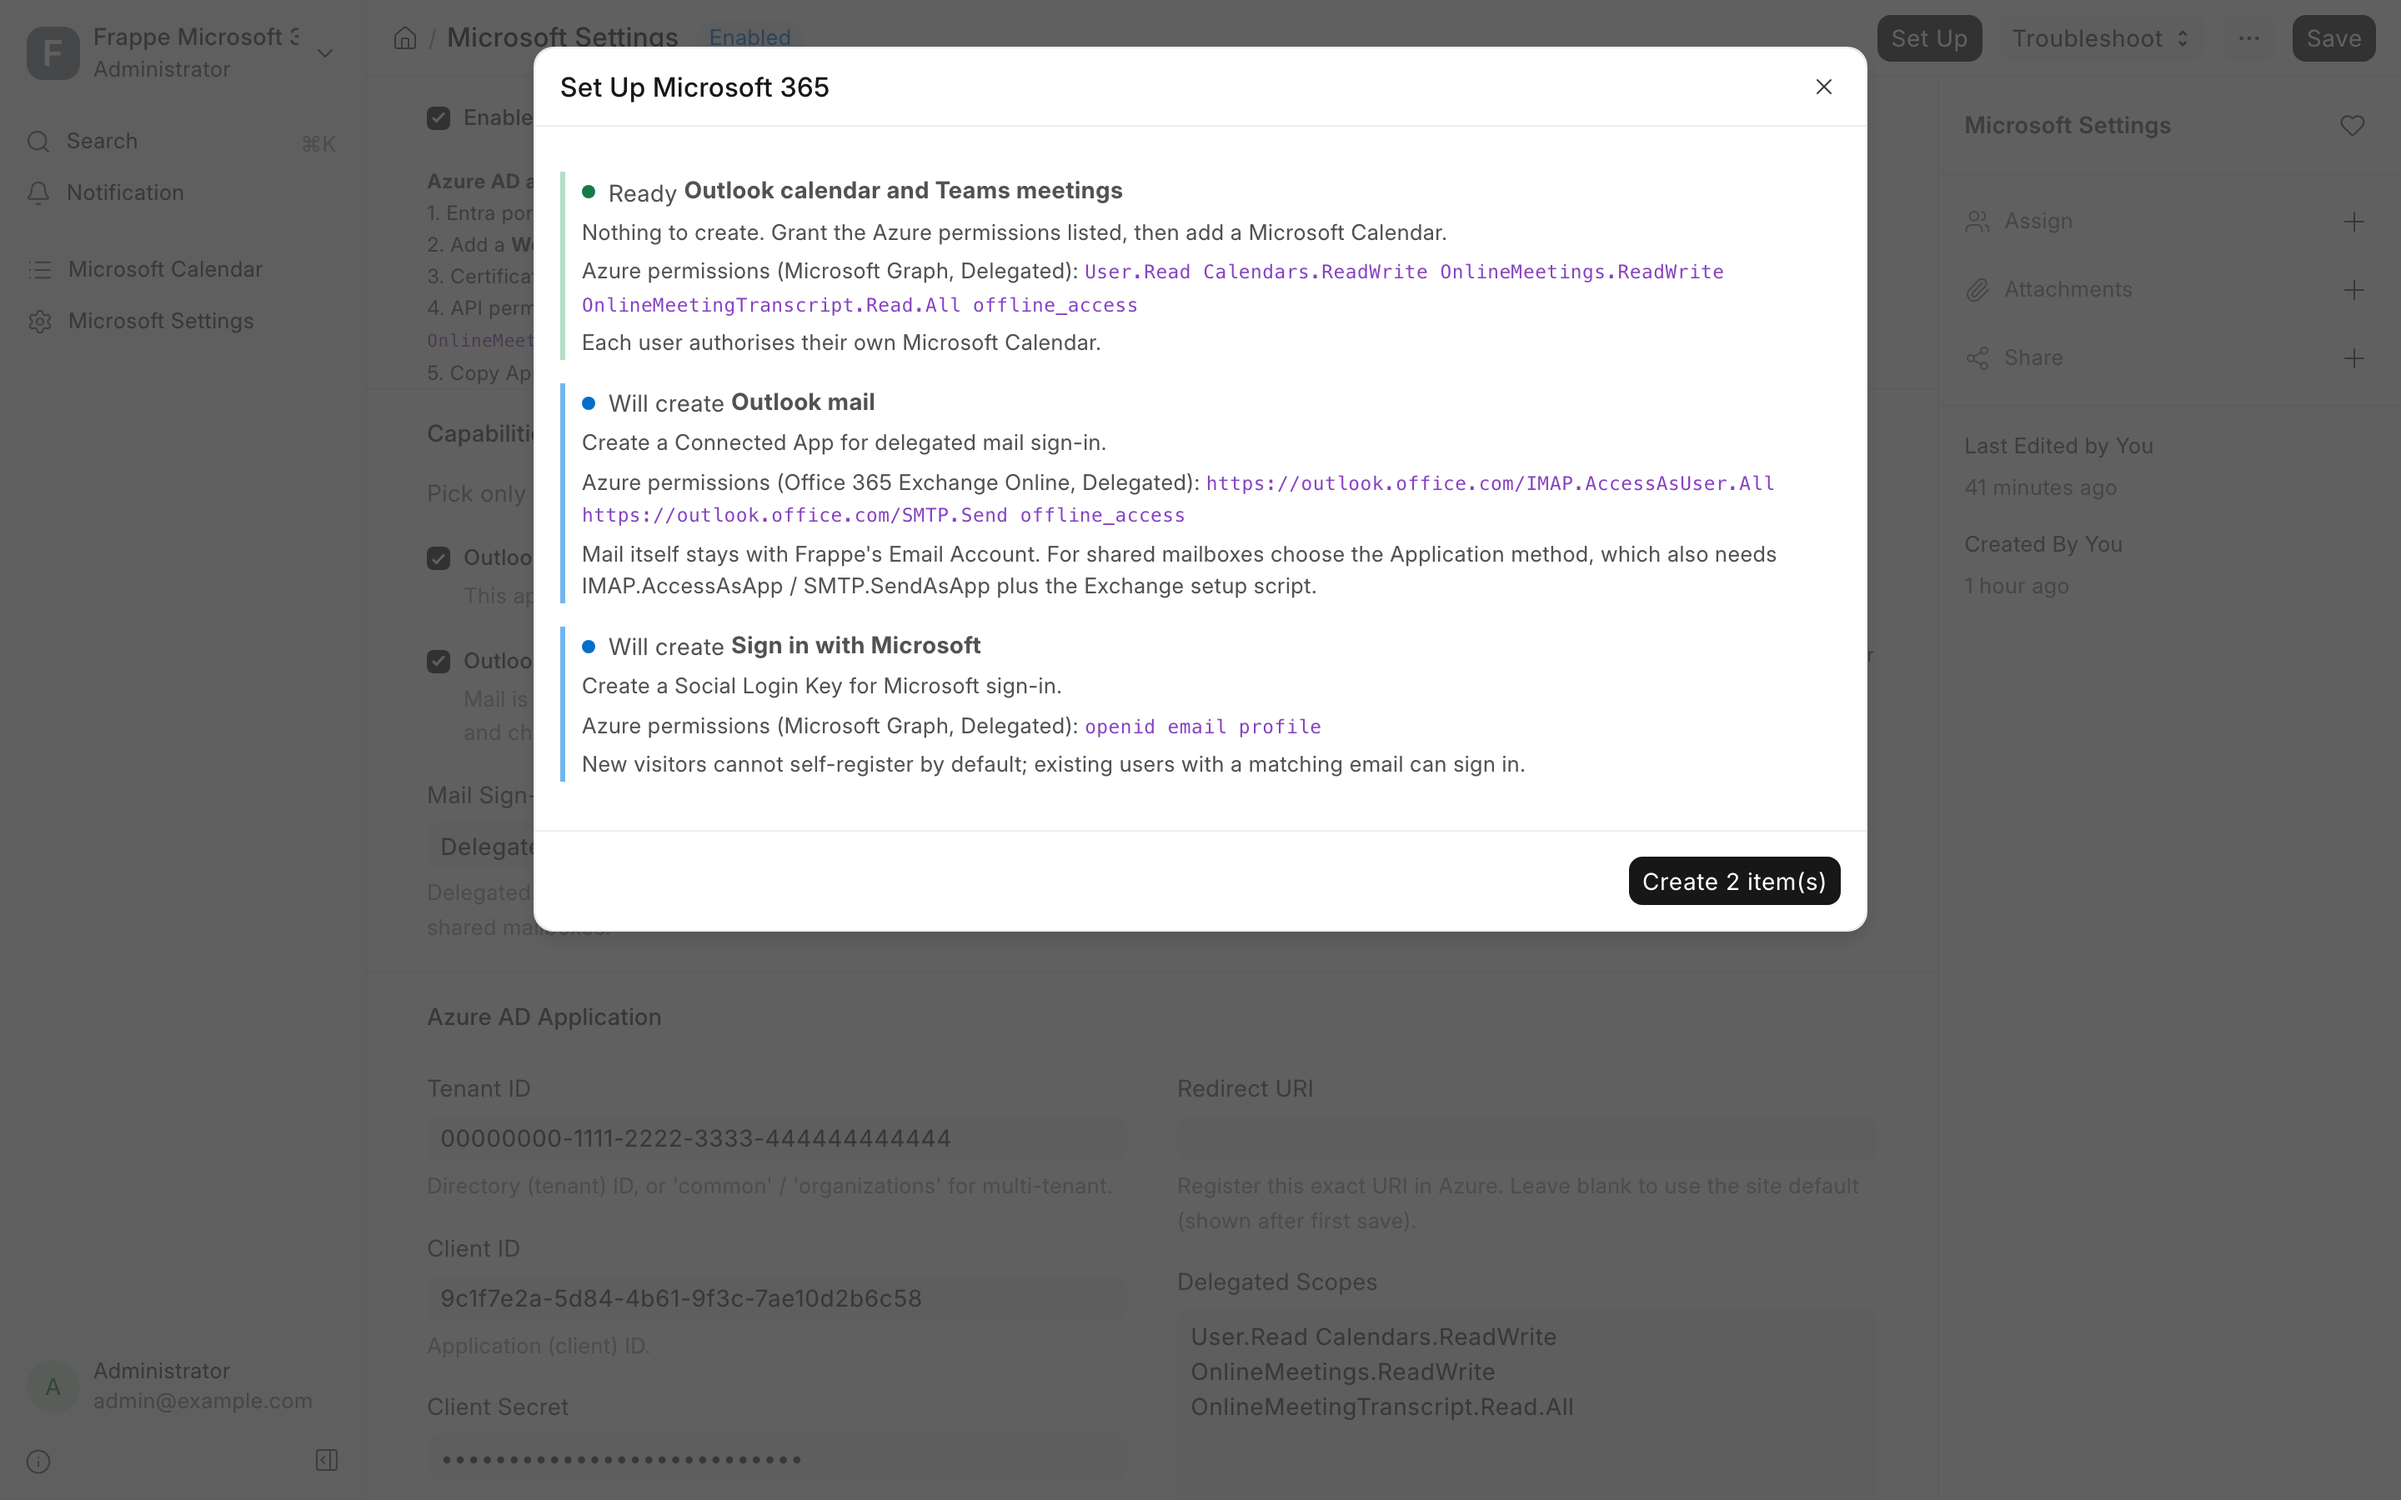
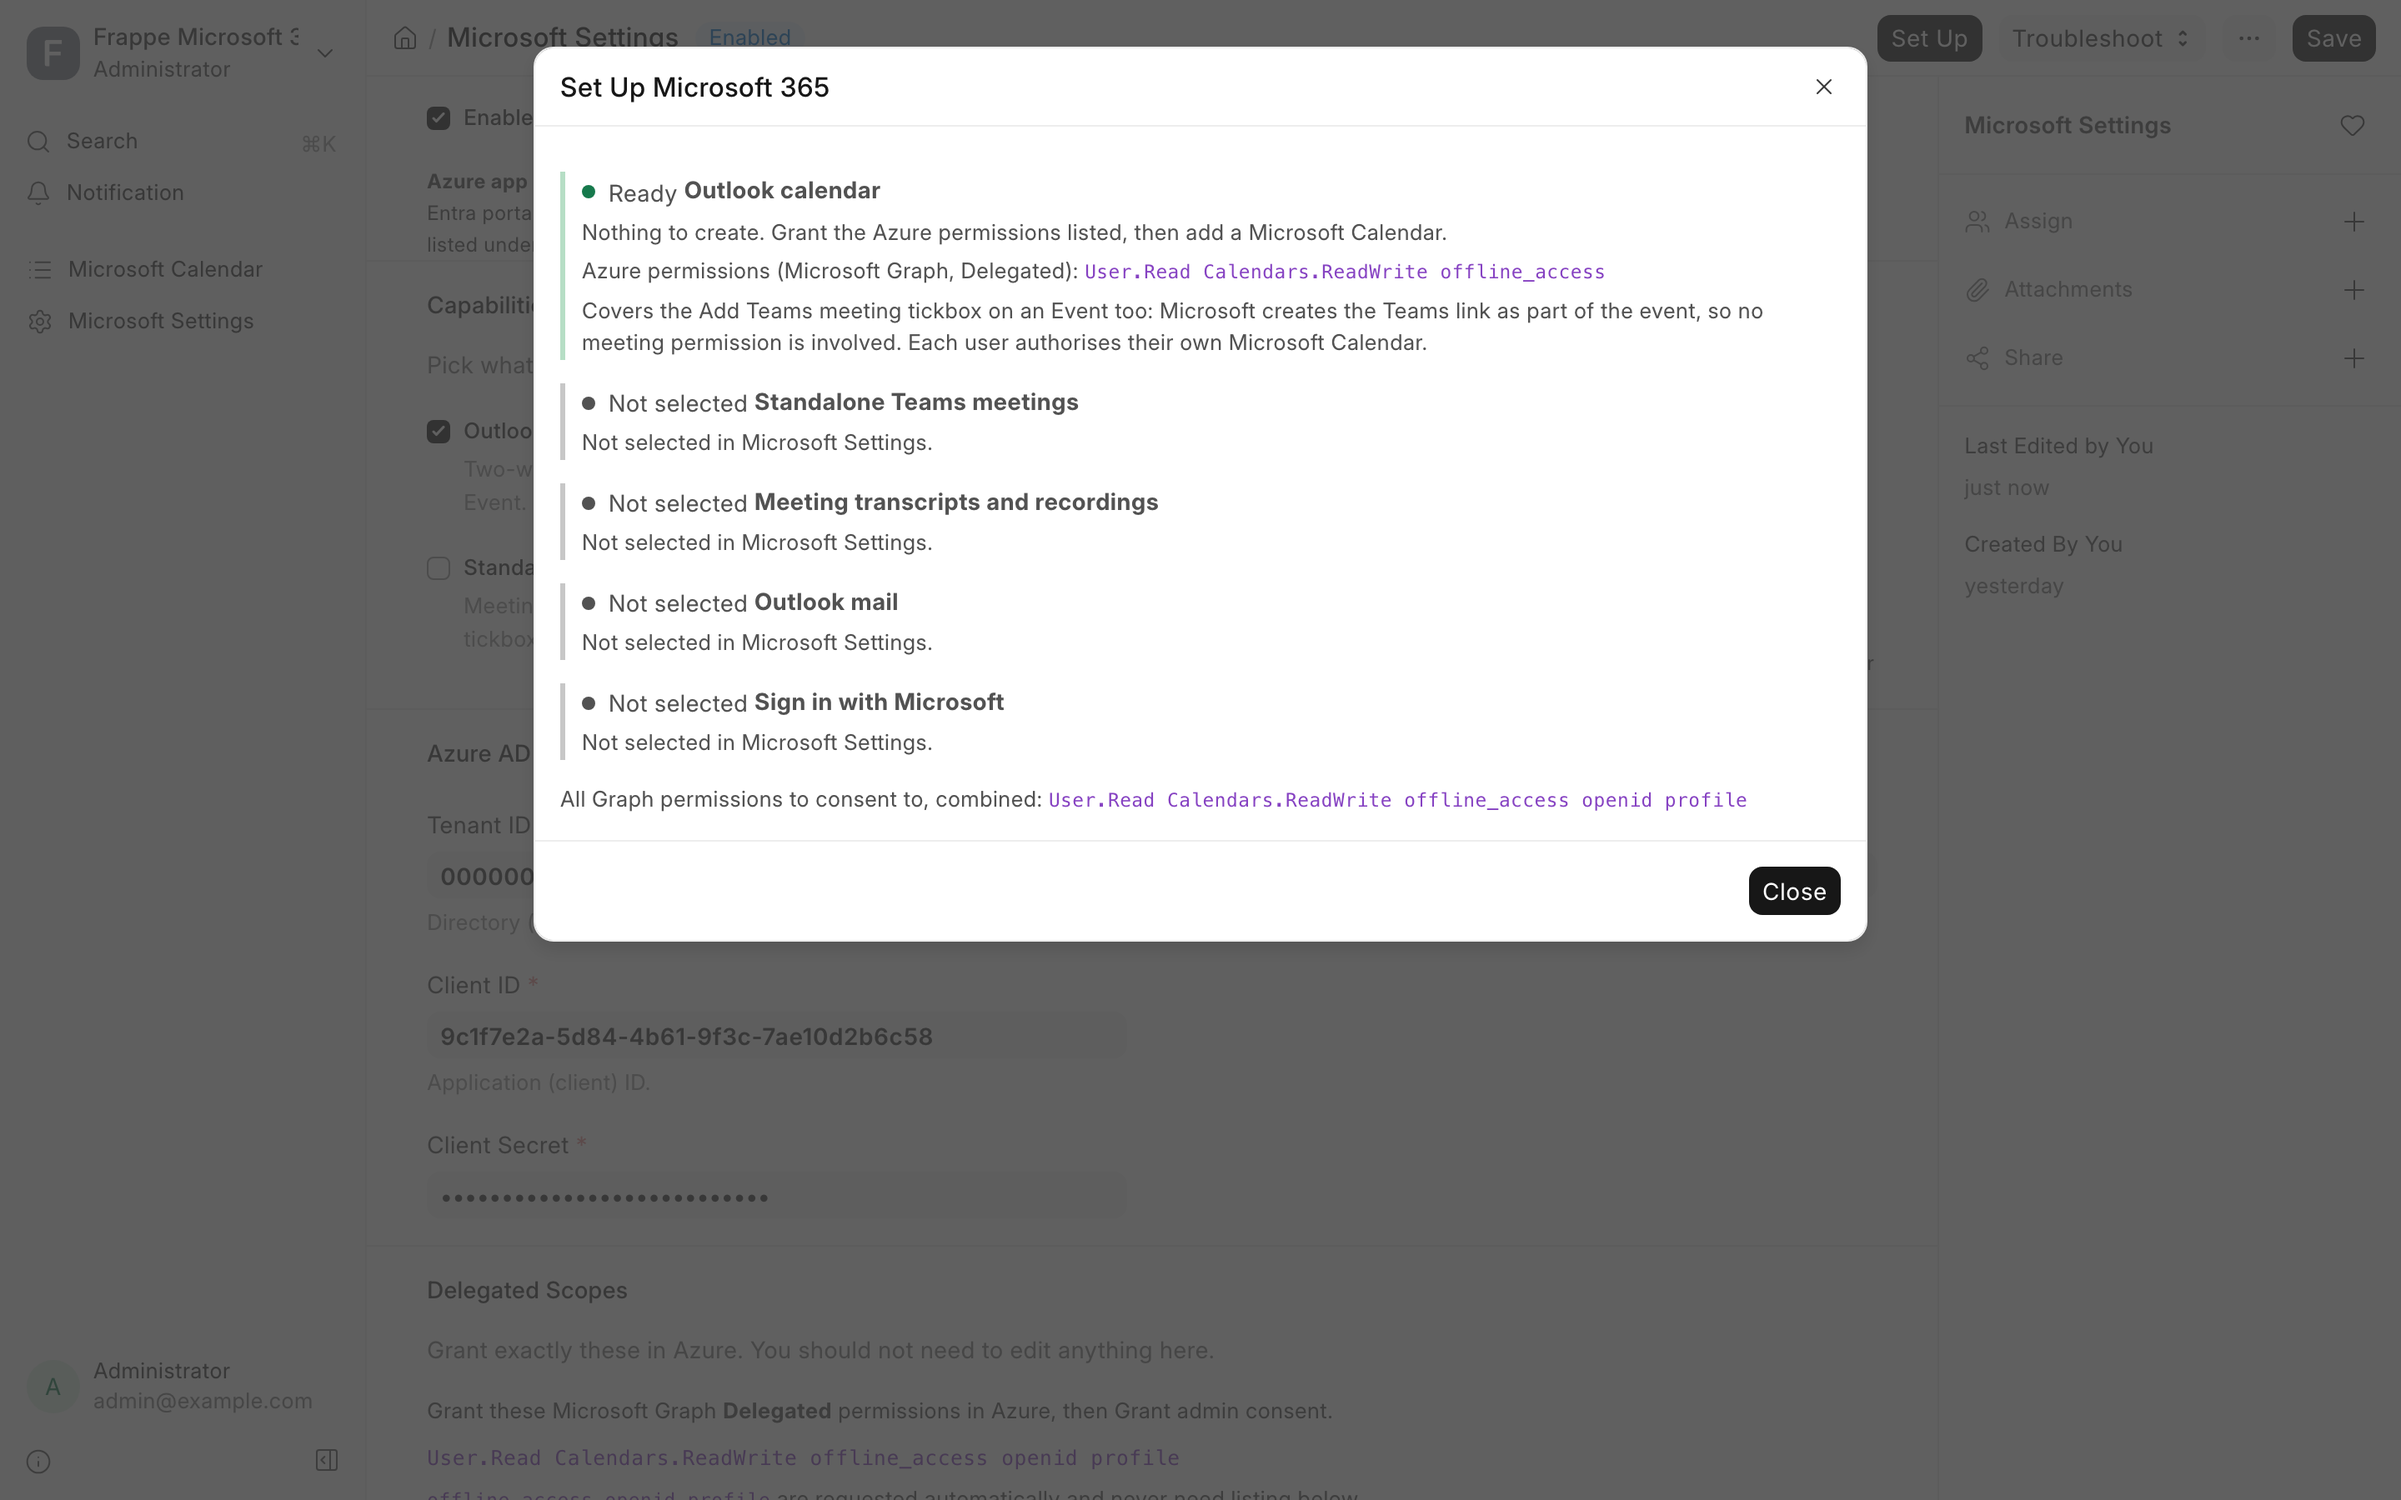
docs: bring the README in line with the app
Cross-checked the README against the code rather than against memory. The prose
was mostly right, but the pictures and three behaviours were not.

All five screenshots predated the capability split, the trimmed form copy and
the mandatory fields, so they showed an interface that no longer exists.
Retaken, and a sixth added for the Event itself: the Join Meeting button, the
RSVP menu, attendees and the Teams tickbox had no picture at all, despite being
the part people actually use.

Three shipped behaviours were undocumented: push is now off by default and asks
before it is turned on, a time range Microsoft would reject is caught on save
rather than after the fact, and sync will not save half-configured. The
safeguards section now covers all three, and says explicitly that data arriving
from Outlook is never second-guessed by that validation.

Demo data used for the screenshots is obviously fake (all-zero tenant, contoso
addresses) and was removed from the site afterwards.

diff --git a/README.md b/README.md
@@ -52,7 +52,10 @@ in the first place.
 
 <br />
 
-**Pick only the capabilities you want — the Azure scopes follow from what is ticked**
+**Join a meeting, reply to an invitation, and see who else has — from the Event itself**
+![Event with a Teams meeting](.github/screenshots/06-event-teams-meeting.png)
+
+**Tick only the capabilities you want; the Azure permissions follow from what you tick**
 ![Microsoft Settings](.github/screenshots/01-microsoft-settings.png)
 
 **Set Up shows a plan first, and never modifies anything that already exists**
@@ -278,8 +281,8 @@ Accounts, or use the app-only flow, where no user identity is involved.
 ### Teams meetings from a Frappe Event
 
 An Event carries an **Add Teams meeting** tickbox, the same idea as Outlook's own toggle.
-Tick it, save, and the event is created in Outlook as a Teams meeting; the **Join Meeting**
-link comes back and appears on the Frappe Event, alongside **Open in Outlook**.
+Tick it, save, and the event is created in Outlook as a Teams meeting. A **Join Meeting**
+button then appears at the top of the Event, with **Open in Outlook** beside it.
 
 It works in both directions: a Teams meeting organised in Outlook keeps its join link when it
 syncs into Frappe, so people can join from either side.
@@ -331,16 +334,23 @@ than right ones. Open the event in Outlook for those.
 
 ### Sensitive actions are called out before they happen
 
-Two things in the app have consequences outside Frappe, and both say so on screen first:
+Three things have consequences outside Frappe, and none of them happen quietly:
 
+- **Writing into a real calendar is opt-in.** `Push Frappe events to Microsoft` is **off by
+  default**; pull is the safe direction. Turning push on asks you to confirm, and says plainly
+  that deleting a Frappe Event will delete the Microsoft one.
 - **The Exchange setup script** grants the application standing access to the mailboxes you
-  list, readable with nobody signed in. The dialog explains that in full and will not generate
-  the script until you confirm, the app never runs it (you paste it into Exchange Online
-  yourself), and **the generated script ends with the commands that undo it**, commented out
-  so nothing reverses by accident.
-- **Turning on "Push Frappe events to Microsoft"** writes into a real Outlook calendar, and
-  deleting a Frappe Event then deletes the Microsoft one. Ticking it asks for confirmation and
-  reverts if you decline.
+  list, readable with nobody signed in. The dialog explains that and will not generate the
+  script until you confirm; the app never runs it, and **the script ends with the commands
+  that undo it**, commented out so nothing reverses by accident.
+- **A time range Microsoft would reject is caught on save**, not after the fact. Frappe does
+  not enforce that an Event ends after it starts and pre-fills both times from the current
+  moment, so an event saved without touching them can end before it begins. You are told while
+  you can still fix it. Data arriving *from* Outlook is never second-guessed this way.
+
+Sync also refuses to be half-configured: ticking **Sync with Microsoft Calendar** requires
+choosing a connection, and enabling the integration requires the Azure credentials, so nothing
+saves in a state that silently does nothing.
 
 ### What this does NOT do
 
